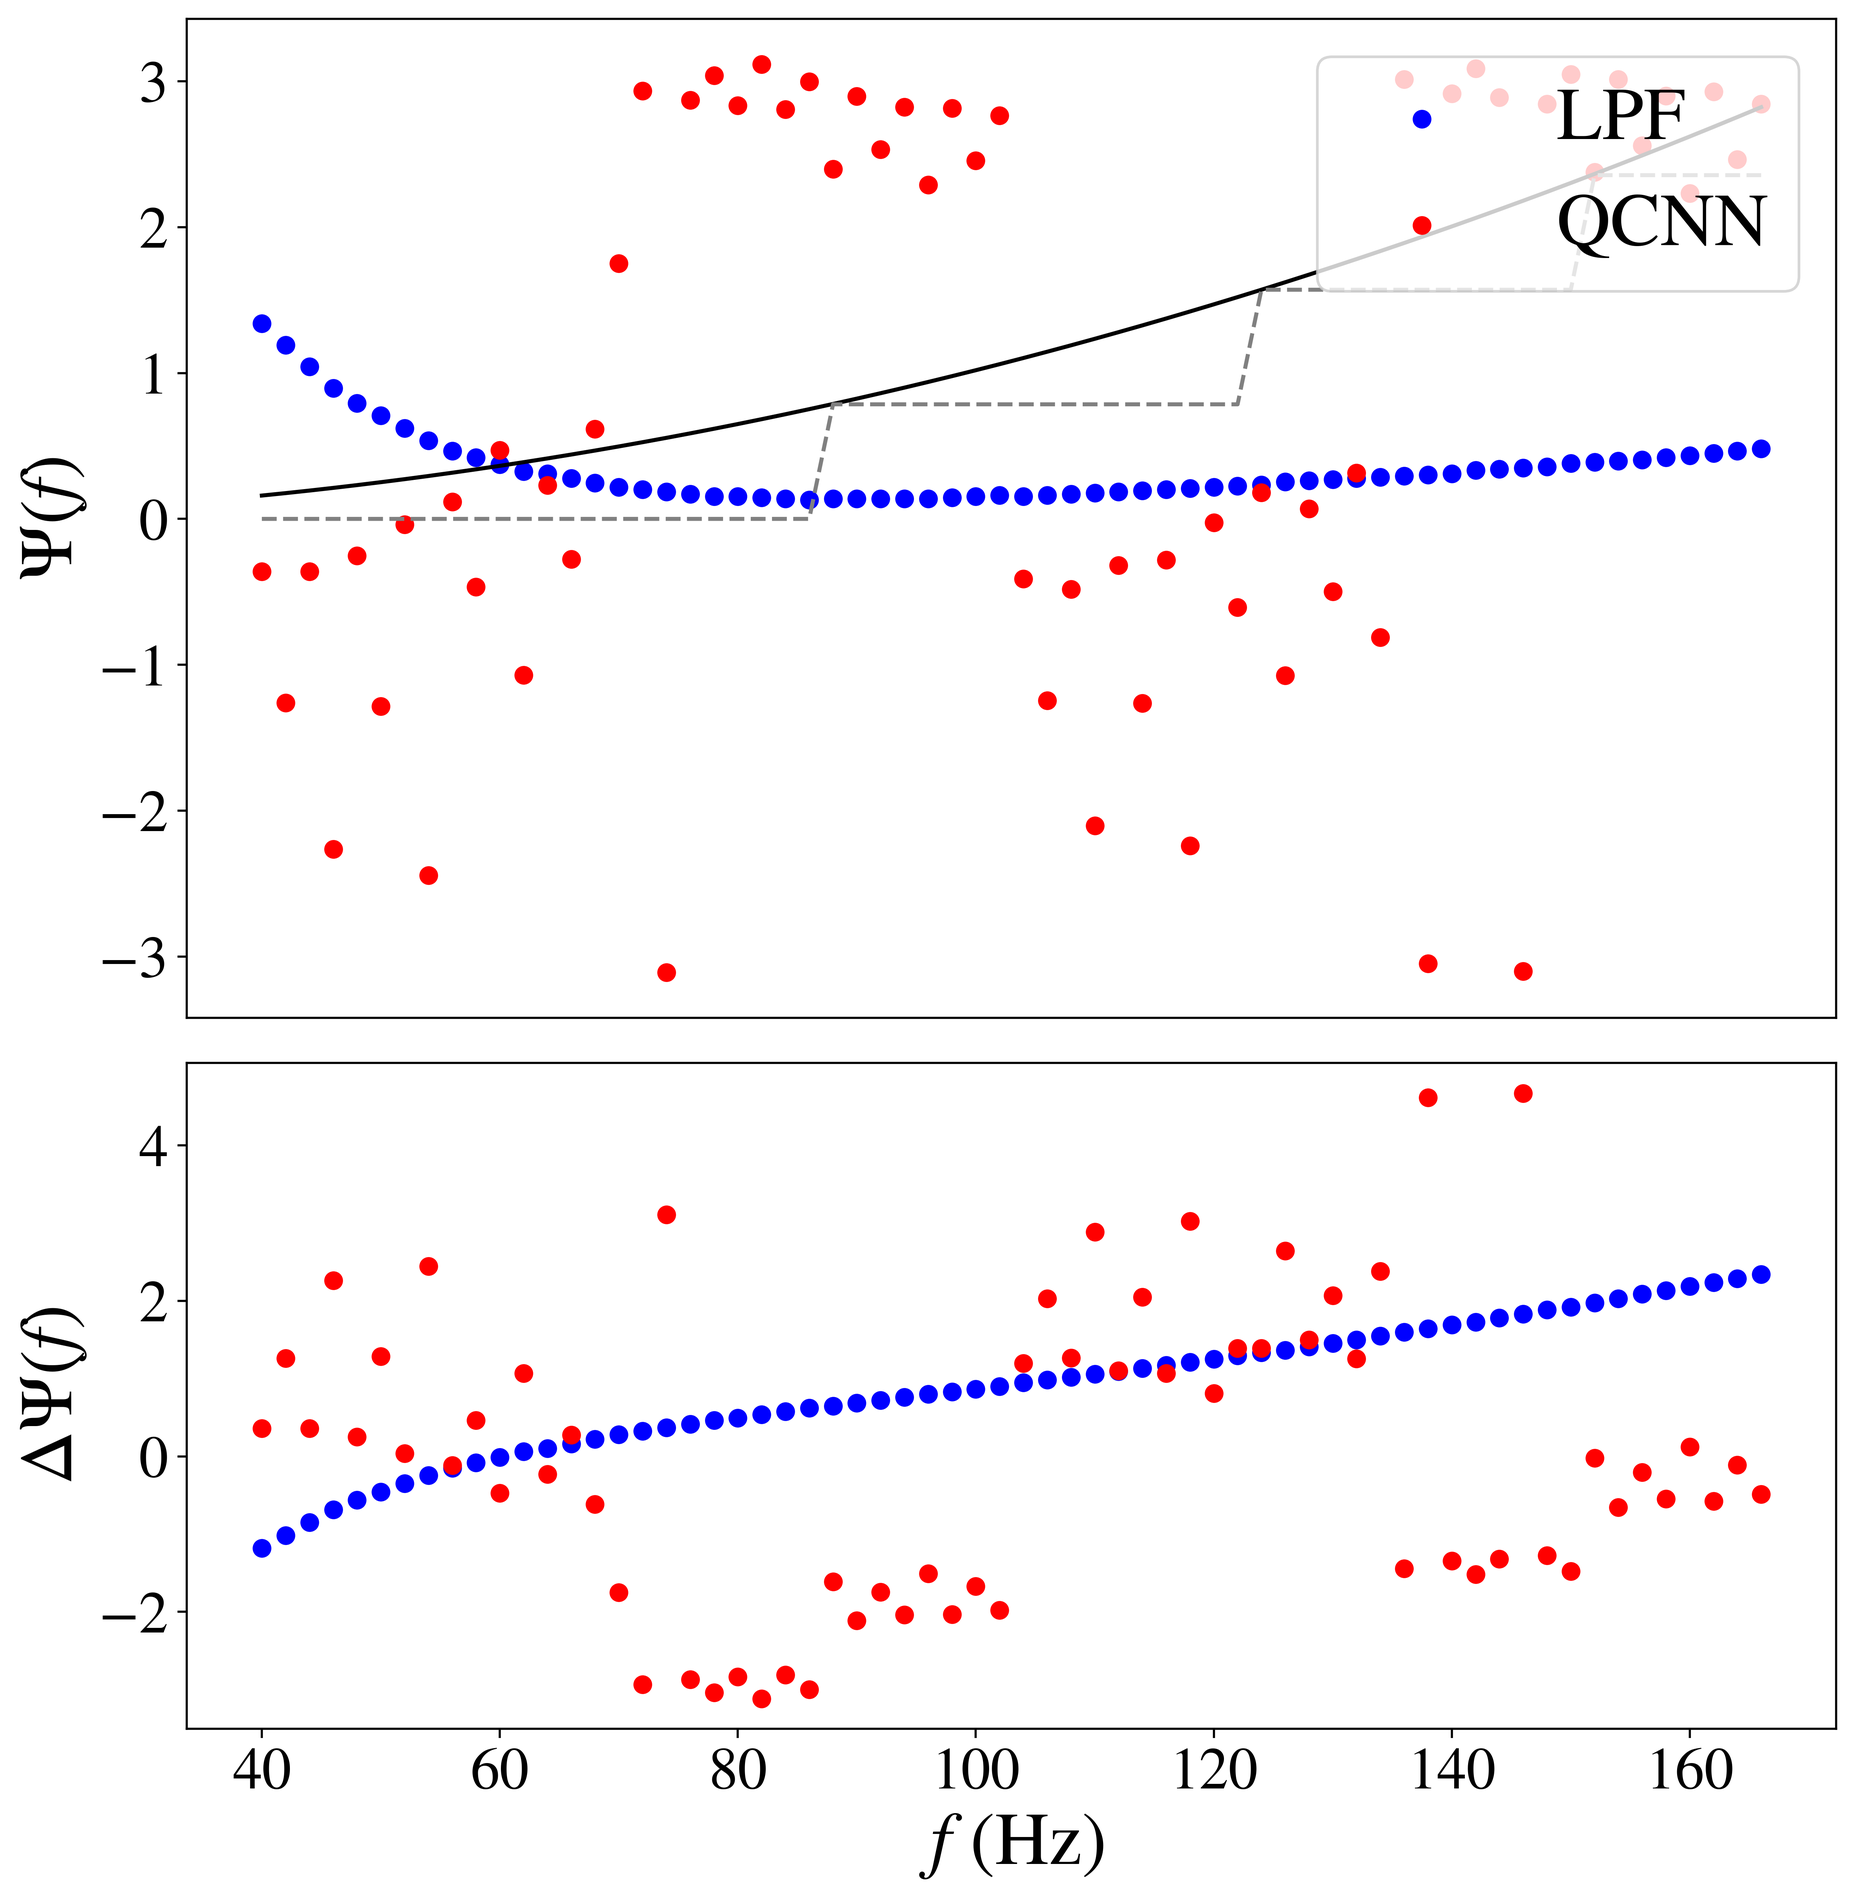
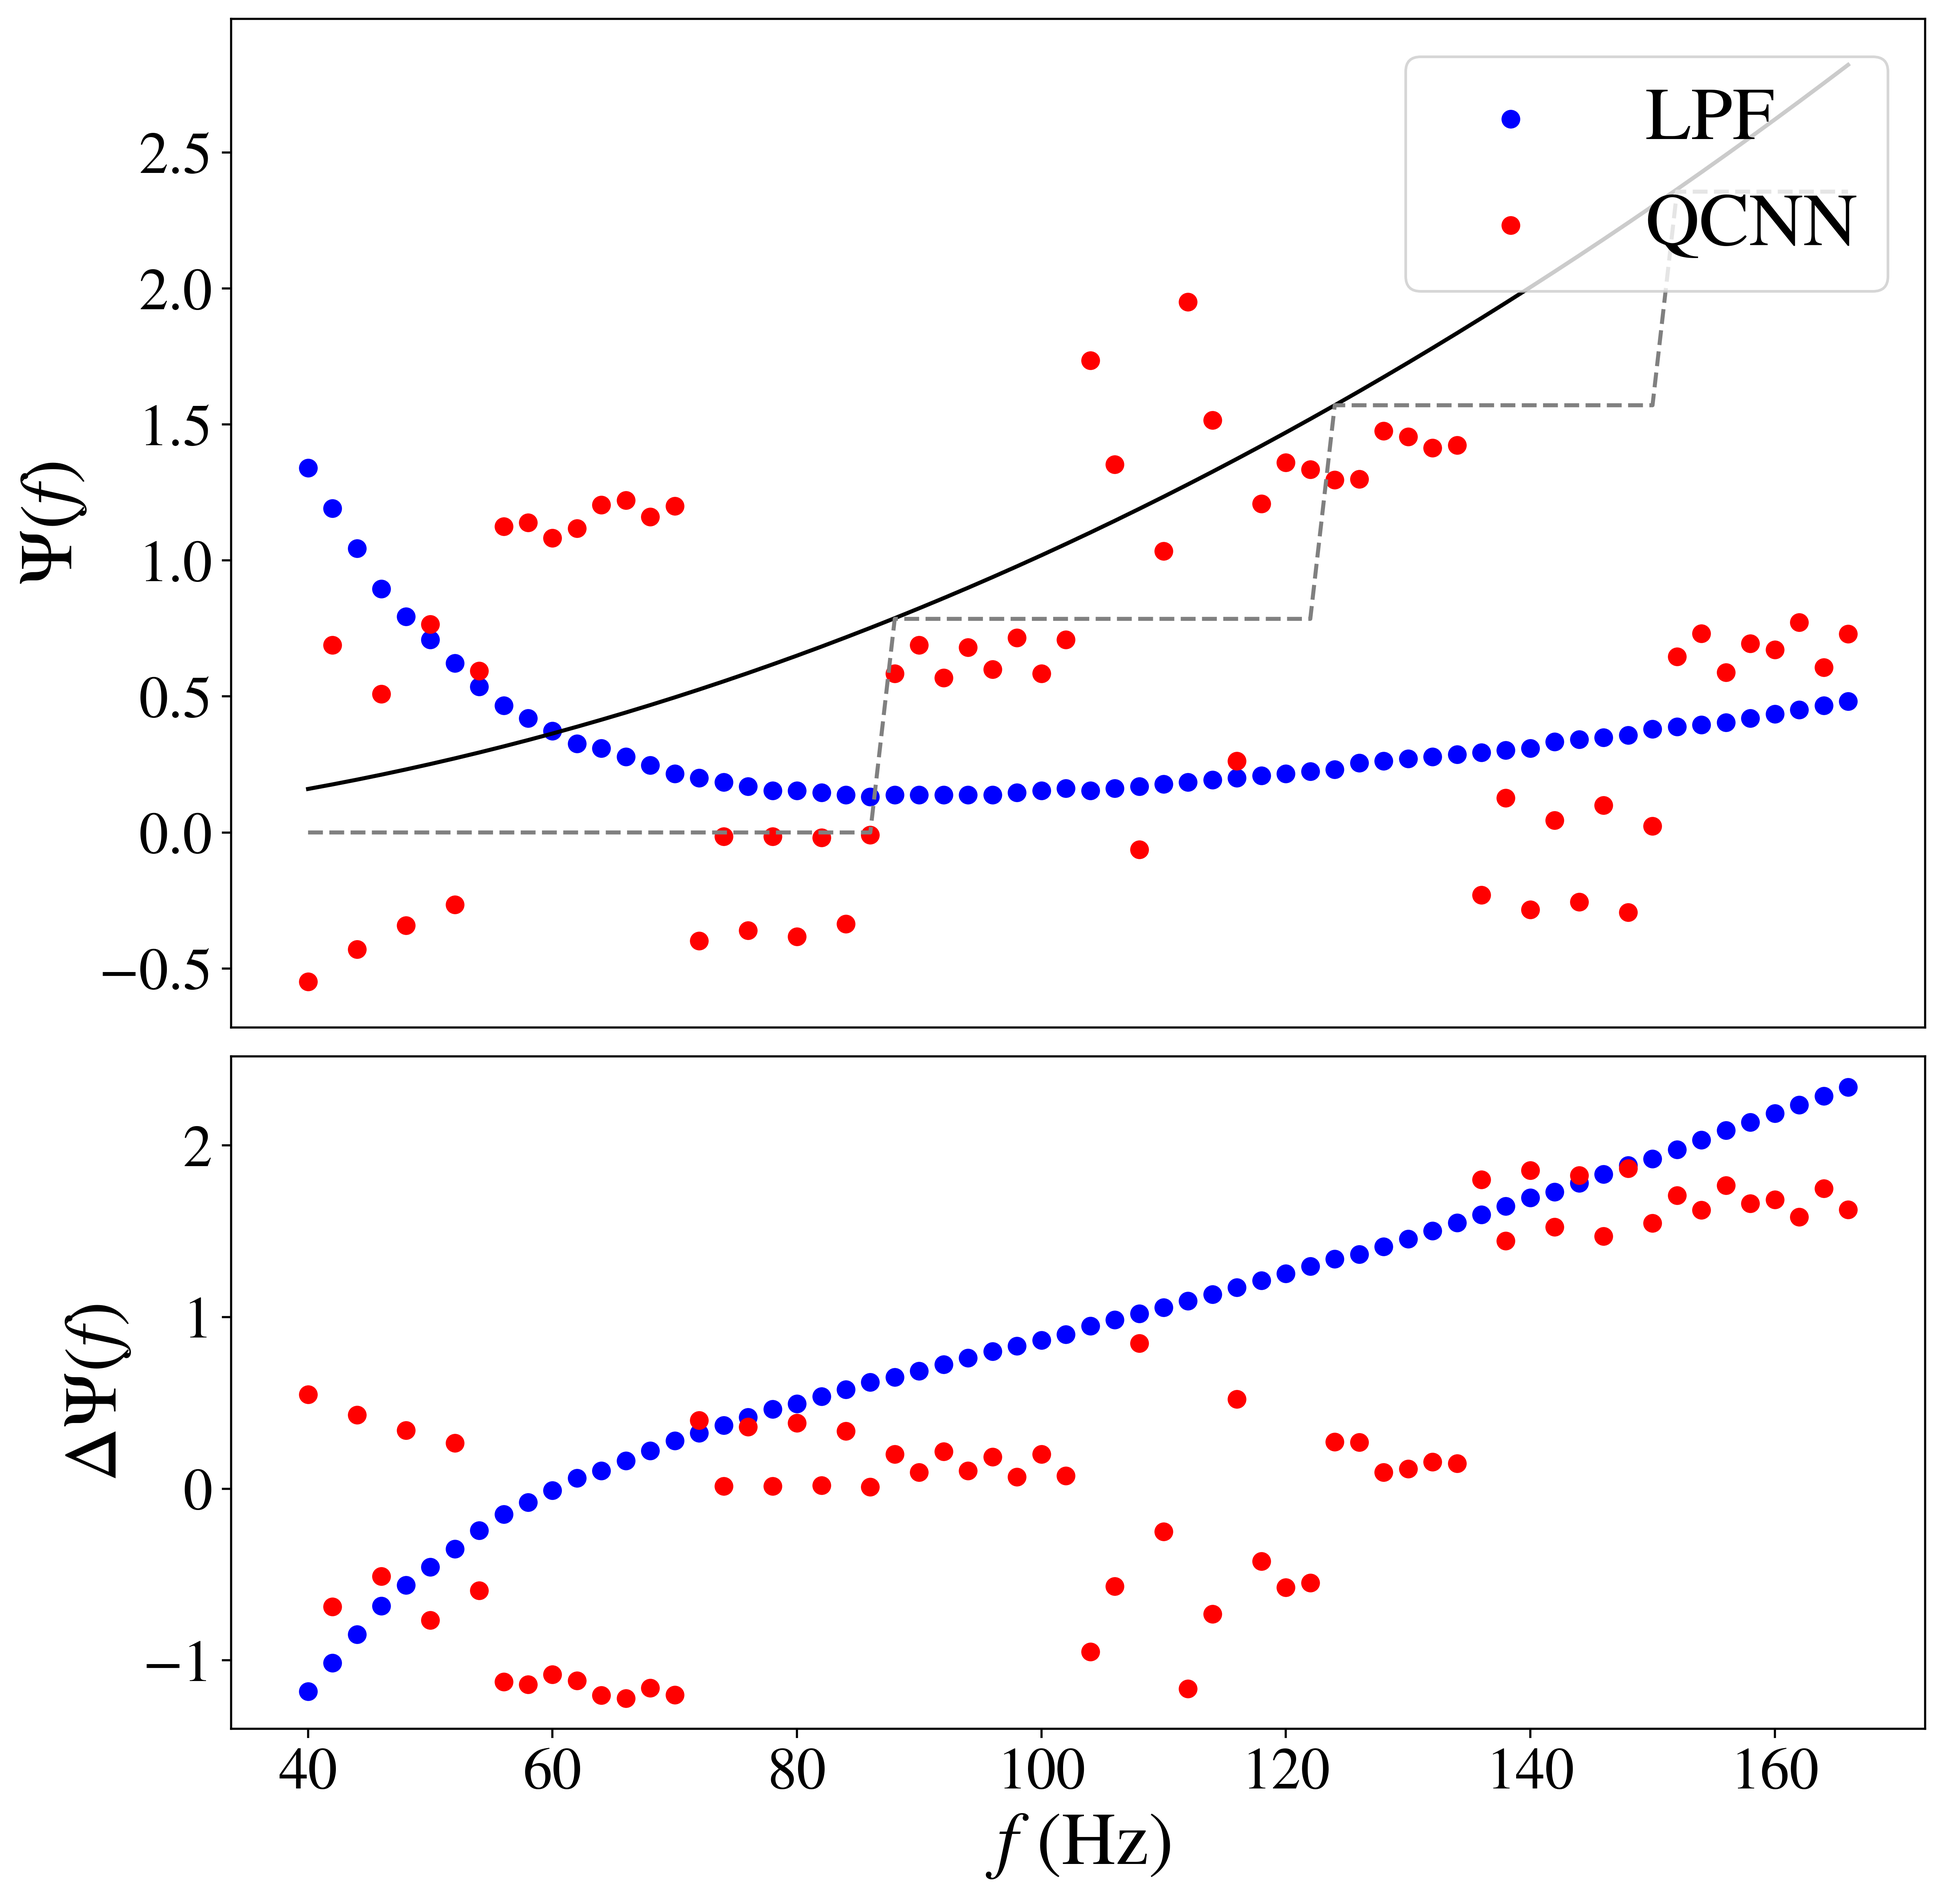
updated QRQ

diff --git a/tools.py b/tools.py
@@ -484,6 +484,8 @@ def train_QNN(n,m,L, seed, shots, lr, b1, b2, epochs, func,func_str,loss_str,met
             raise ValueError("This loss function requires training in superposition.")
         if n != 6:
             raise ValueError("This loss function requires n=6.")
+        if phase_reduce !=True:
+            raise ValueError("This loss function required phase reduction.")
 
     # generate circuit and set up as QNN 
     if train_superpos: 
@@ -702,8 +704,19 @@ def train_QNN(n,m,L, seed, shots, lr, b1, b2, epochs, func,func_str,loss_str,met
 
         target=torch.polar(Tensor(np.abs(target_arr)), Tensor(np.angle(target_arr)))
 
+        phase_tensor_target= Tensor(2*np.pi*phase_arr)
+
         def criterion(output):
-            return  1. -torch.abs(torch.sum(torch.mul(output, target)))
+
+            # get phase of output
+            phase_tensor=torch.angle(output) 
+
+            # compare to target 
+            chi=torch.abs(phase_tensor - phase_tensor_target)
+
+            return torch.mean(chi)
+
+            #return  1. -torch.abs(torch.sum(torch.mul(output, target)))
         
     """
         def criterion(model):

diff --git a/encode.py b/encode.py
@@ -7,7 +7,7 @@ from tools import psi, bin_to_dec, dec_to_bin, full_encode
 L_phase = 6
 real_p = True 
 m = 3
-weights_phase ="outputs/__TEMP100_weights_6_3(0)_6_600_psi_CHIL_quadratic(S)(PR)(r).npy"     #"outputs/weights_6_3(0)_6_600_psi_MM_(S)(PR)(r).npy" 
+weights_phase ="outputs/__TEMP100_weights_6_3(0)_6_600_psi_QRQ_quadratic(S)(PR)(r).npy"     #"outputs/weights_6_3(0)_6_600_psi_MM_(S)(PR)(r).npy" 
 
 repeat_params=None
 psi_mode="quadratic"
@@ -108,7 +108,7 @@ real_wave =np.real(state_vec)
 im_wave = np.imag(state_vec)
 
 # print info
-"""
+
 bar =np.array(list(np.load("outputs/bar"+weights_phase[15:],allow_pickle='TRUE').item().values()))
 mu = np.mean(bar) 
 sigma = np.std(bar)
@@ -124,7 +124,7 @@ print("Mu: ",f"{mu:.3e}")
 print("Sigma: ",f"{sigma:.3e}") 
 print("Omega: ",f"{omega:.3f}") 
 print("-----------------------------------")
-"""
+
 #------------------------------------------------------------------------------
 if no_A==False:
     """
